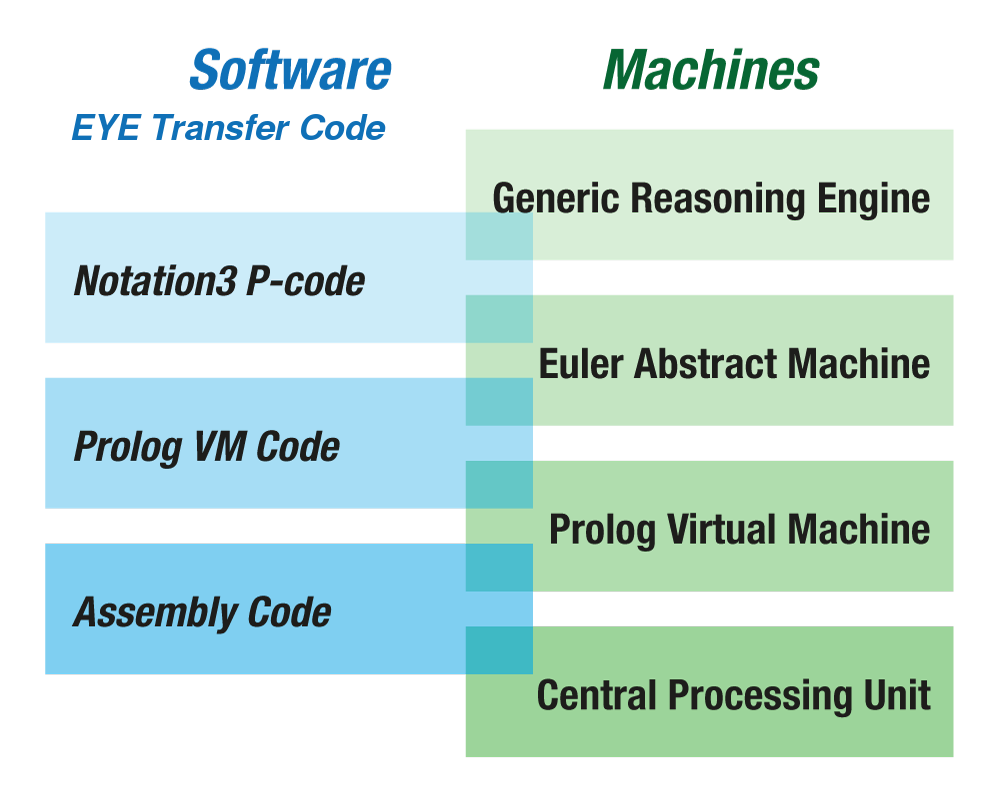
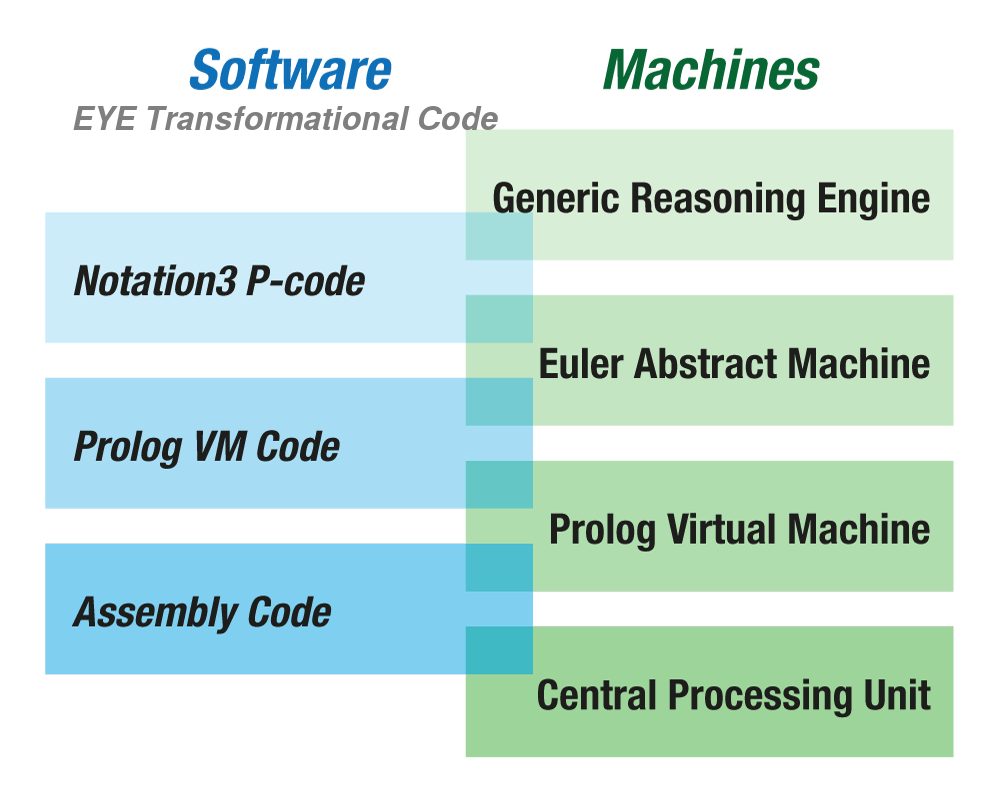
EYE Transformational Code

Changed region(s): [[0.062, 0.125, 0.496, 0.1875]]

diff --git a/index.html b/index.html
@@ -31,7 +31,7 @@
       <td>
         <a href="http://josd.github.io/rotor.html">Wind rotor mechanisms</a><br/>
         <a href="http://github.com/josd/eye">Euler Yet another proof Engine</a><br/>
-        <a href="http://github.com/josd/etc">EYE Transfer Code</a><br/>
+        <a href="http://github.com/josd/etc">EYE Transformational Code</a><br/>
       </td>
     </tr>
   </tbody>
